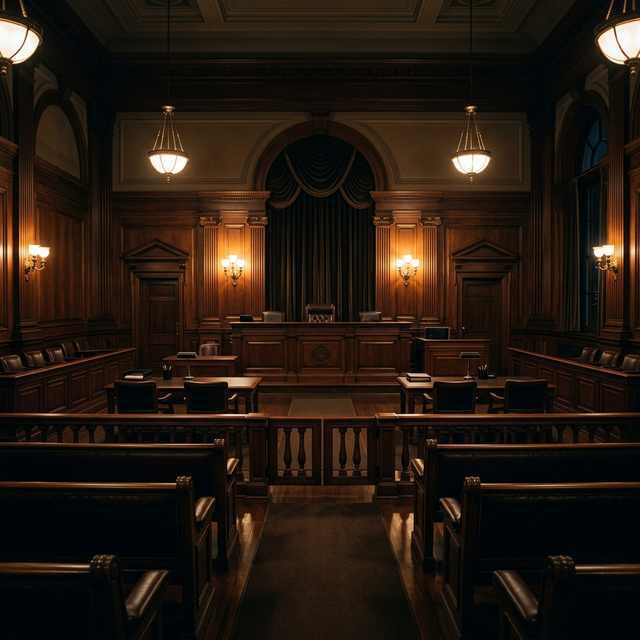
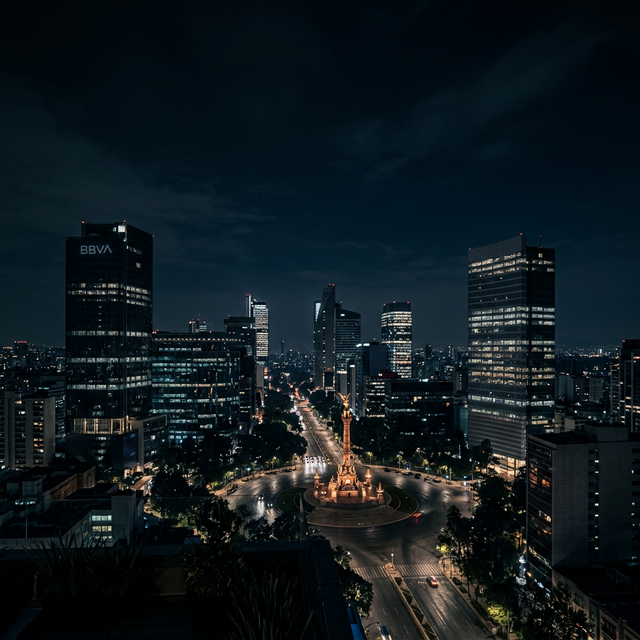
Update hero background to Paseo de la Reforma skyline

diff --git a/src/components/HeroAnimation.tsx b/src/components/HeroAnimation.tsx
@@ -9,7 +9,7 @@ export default function HeroAnimation({ children }: { children?: React.ReactNode
             {/* Background Image */}
             <div 
                 className="absolute inset-0 bg-cover bg-center bg-no-repeat z-0"
-                style={{ backgroundImage: "url('/hero-bg.png?v=3')" }}
+                style={{ backgroundImage: "url('/hero-bg.png?v=4')" }}
             />
 
             {/* Base Background/Shadow Overlays */}
